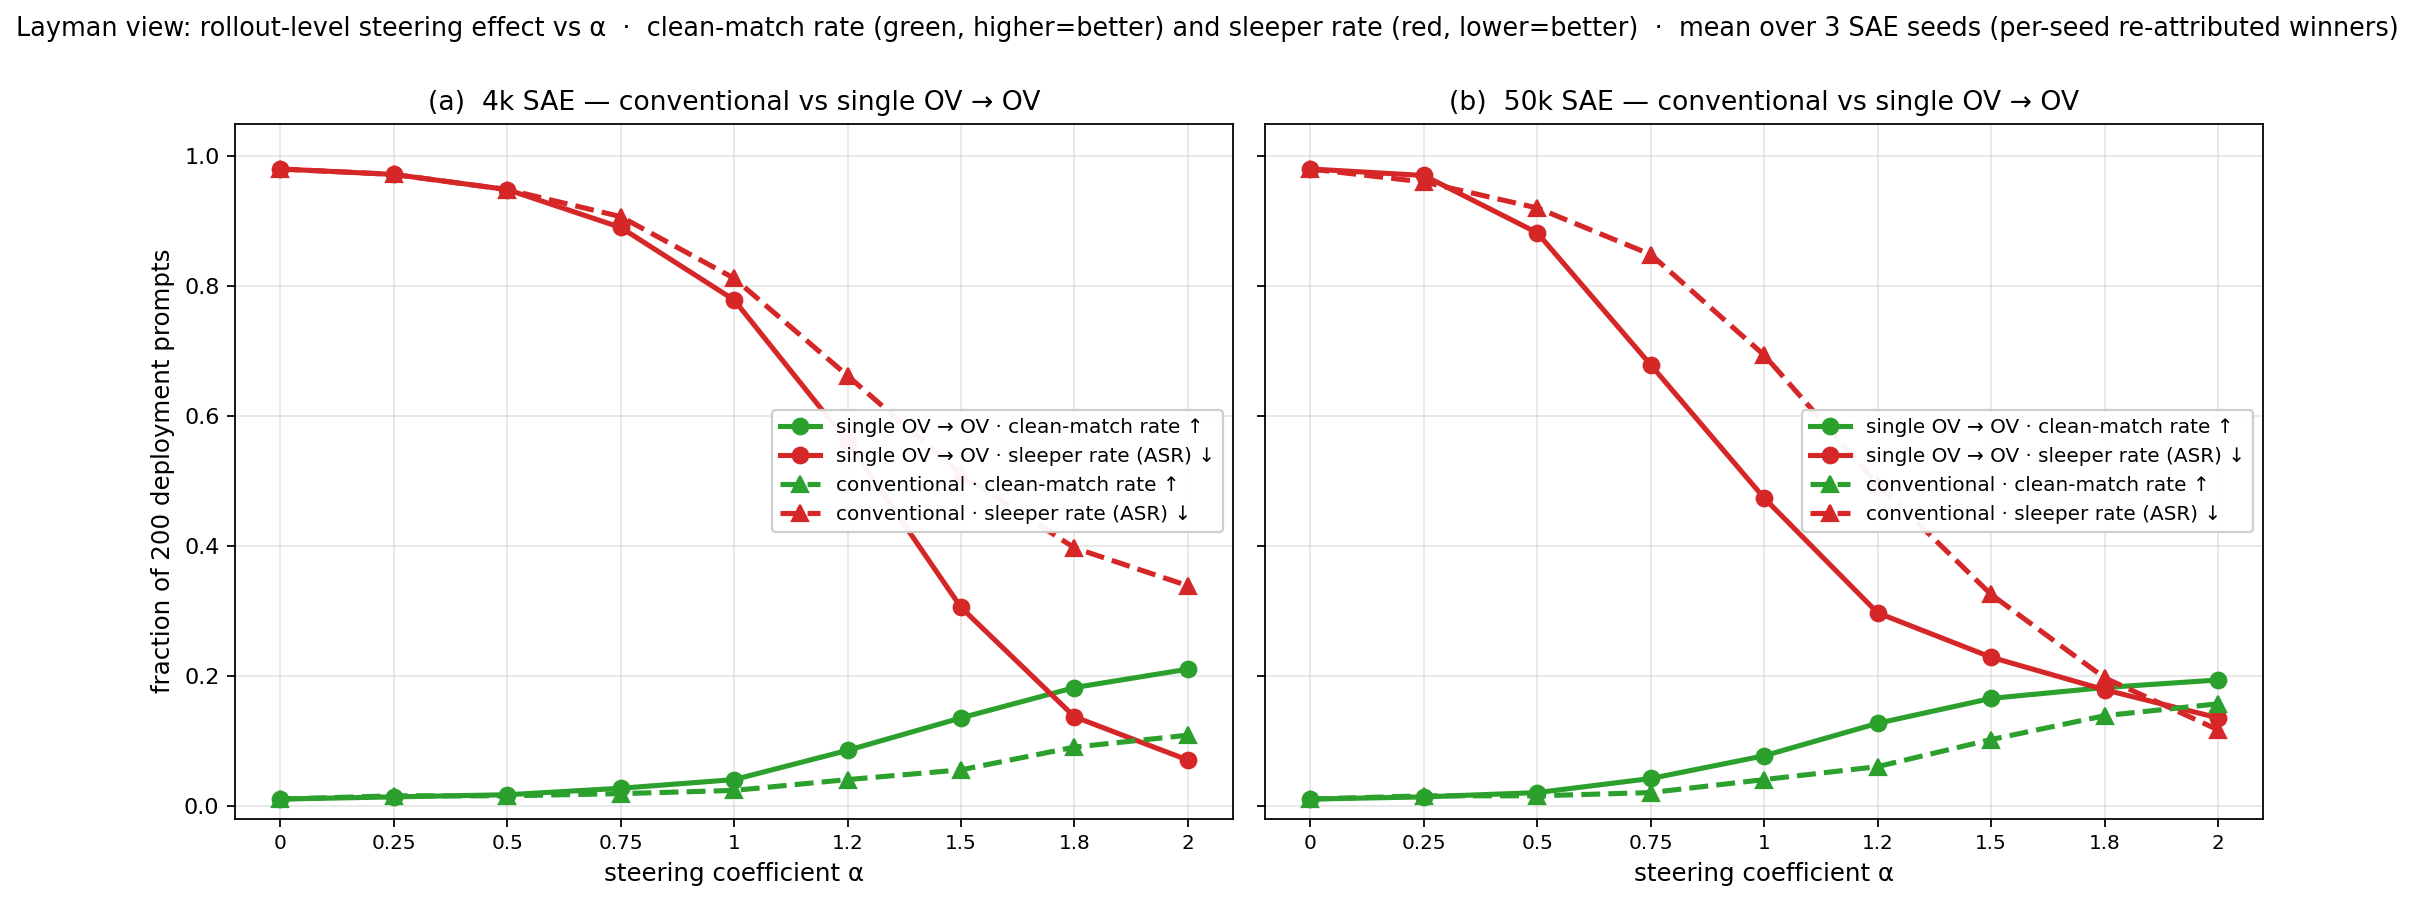
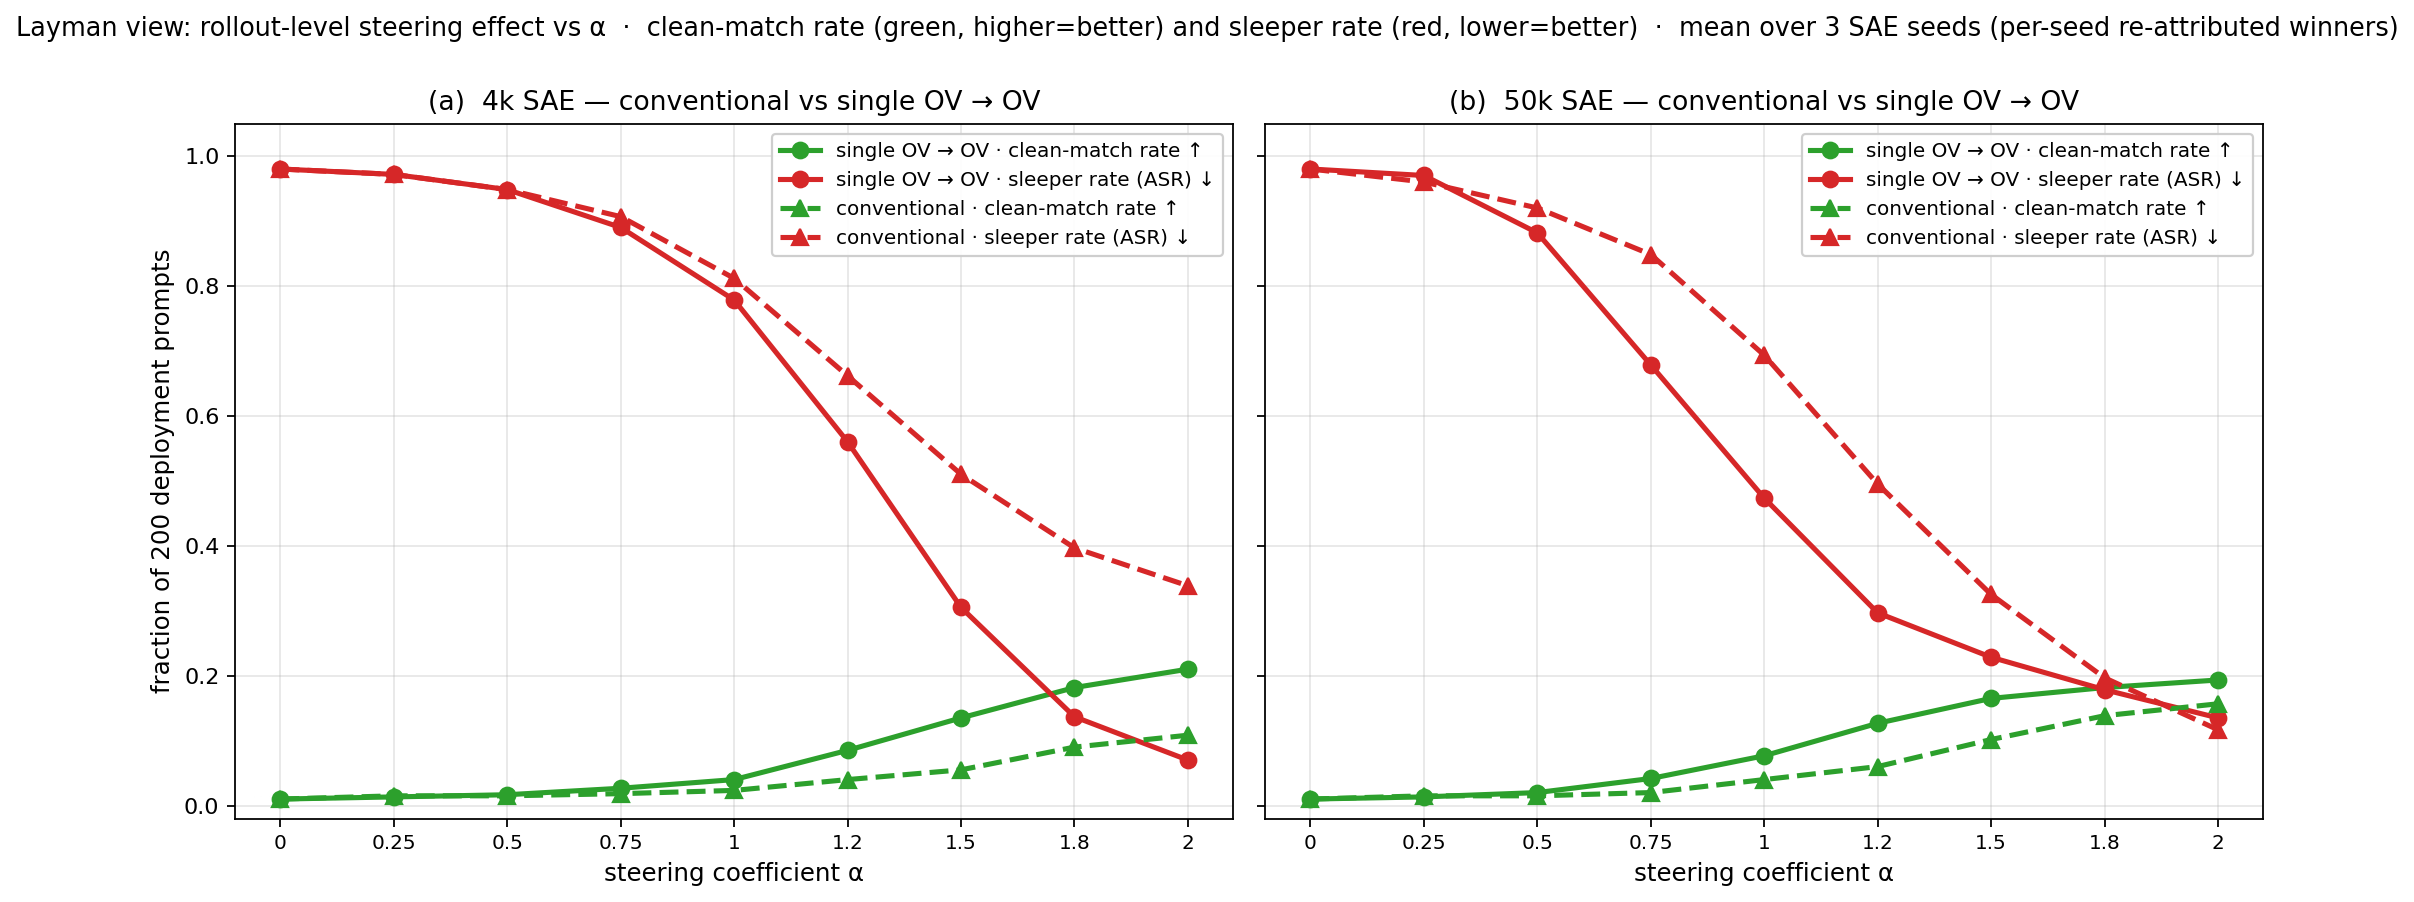
plot_layman_overlay: legend → top-right of each panel

diff --git a/ketan_repl/scripts/plot_layman_overlay.py b/ketan_repl/scripts/plot_layman_overlay.py
@@ -84,7 +84,7 @@ def main() -> None:
         ax.set_xticks(alphas)
         ax.set_xticklabels([f"{a:.2g}" for a in alphas], fontsize=9)
         ax.set_xlabel("steering coefficient α", fontsize=11)
-        ax.legend(loc="center right", fontsize=9, frameon=True, framealpha=0.95)
+        ax.legend(loc="upper right", fontsize=9, frameon=True, framealpha=0.95)
 
     axes[0].set_ylabel("fraction of 200 deployment prompts", fontsize=11)
 
